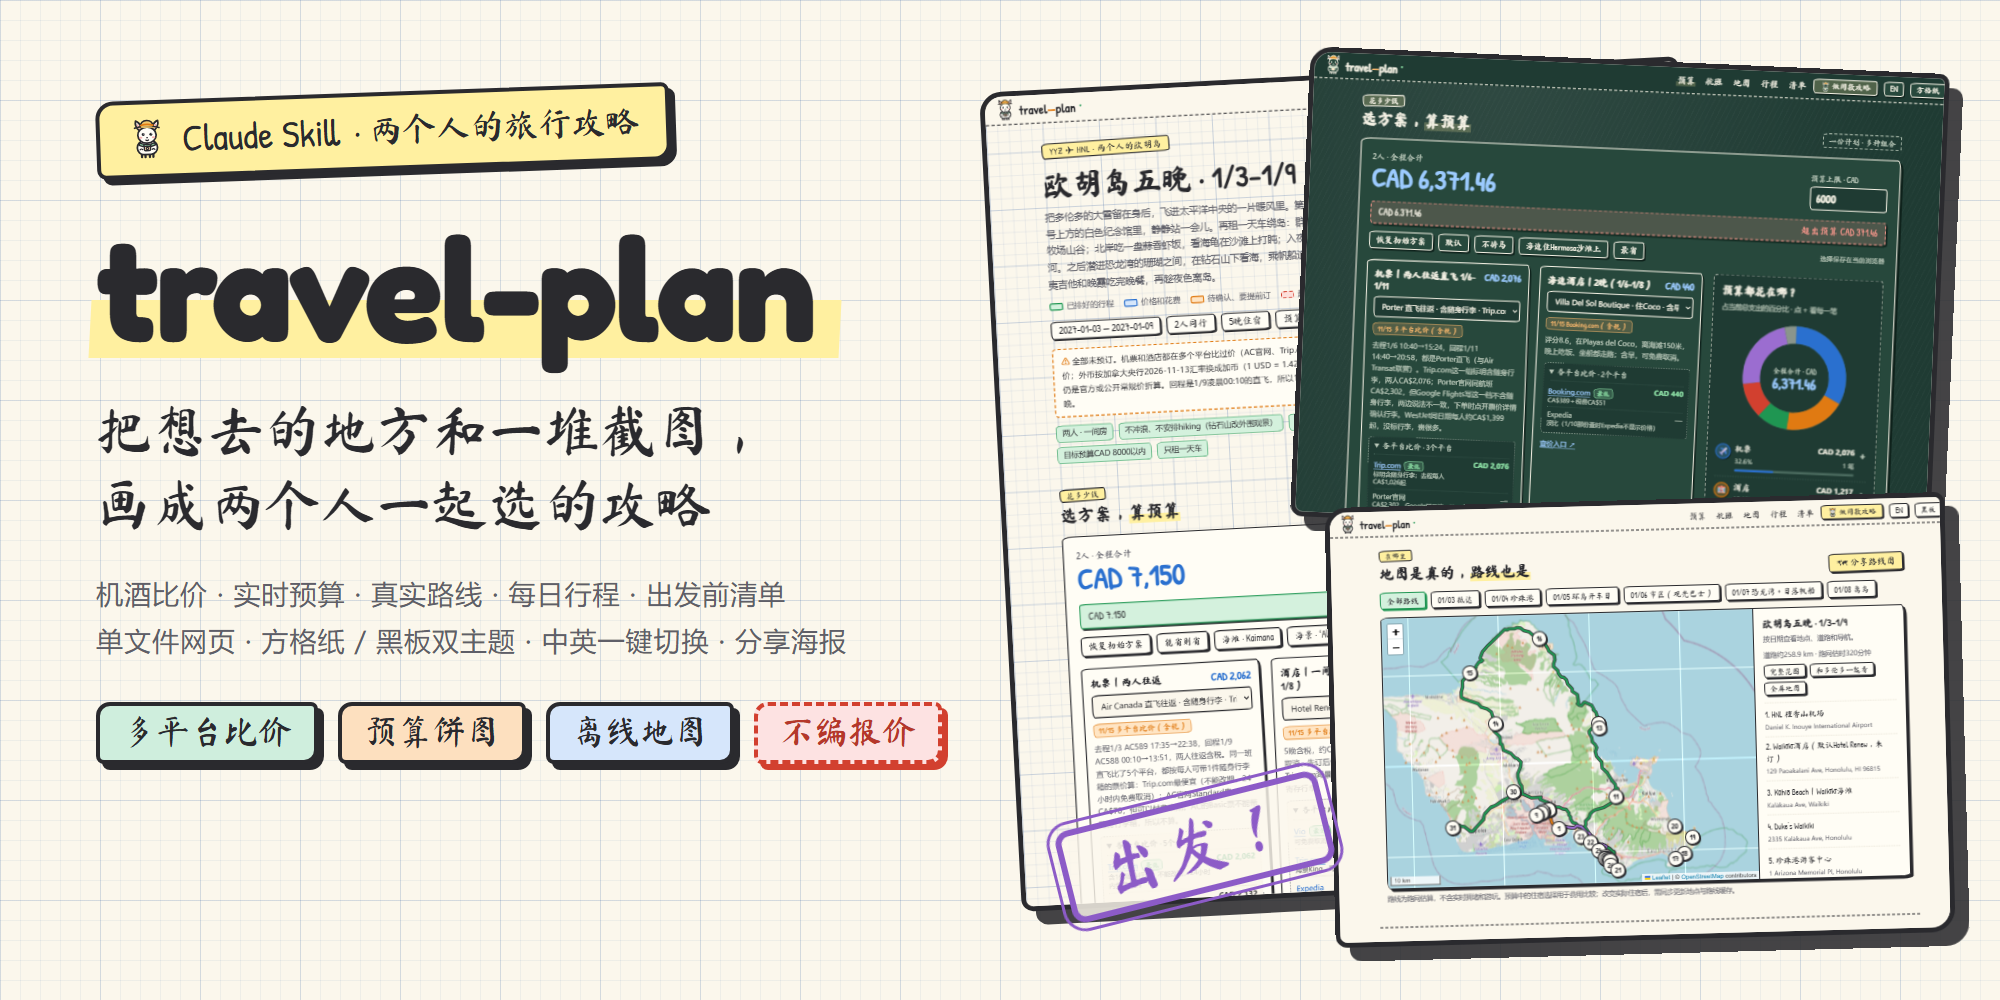
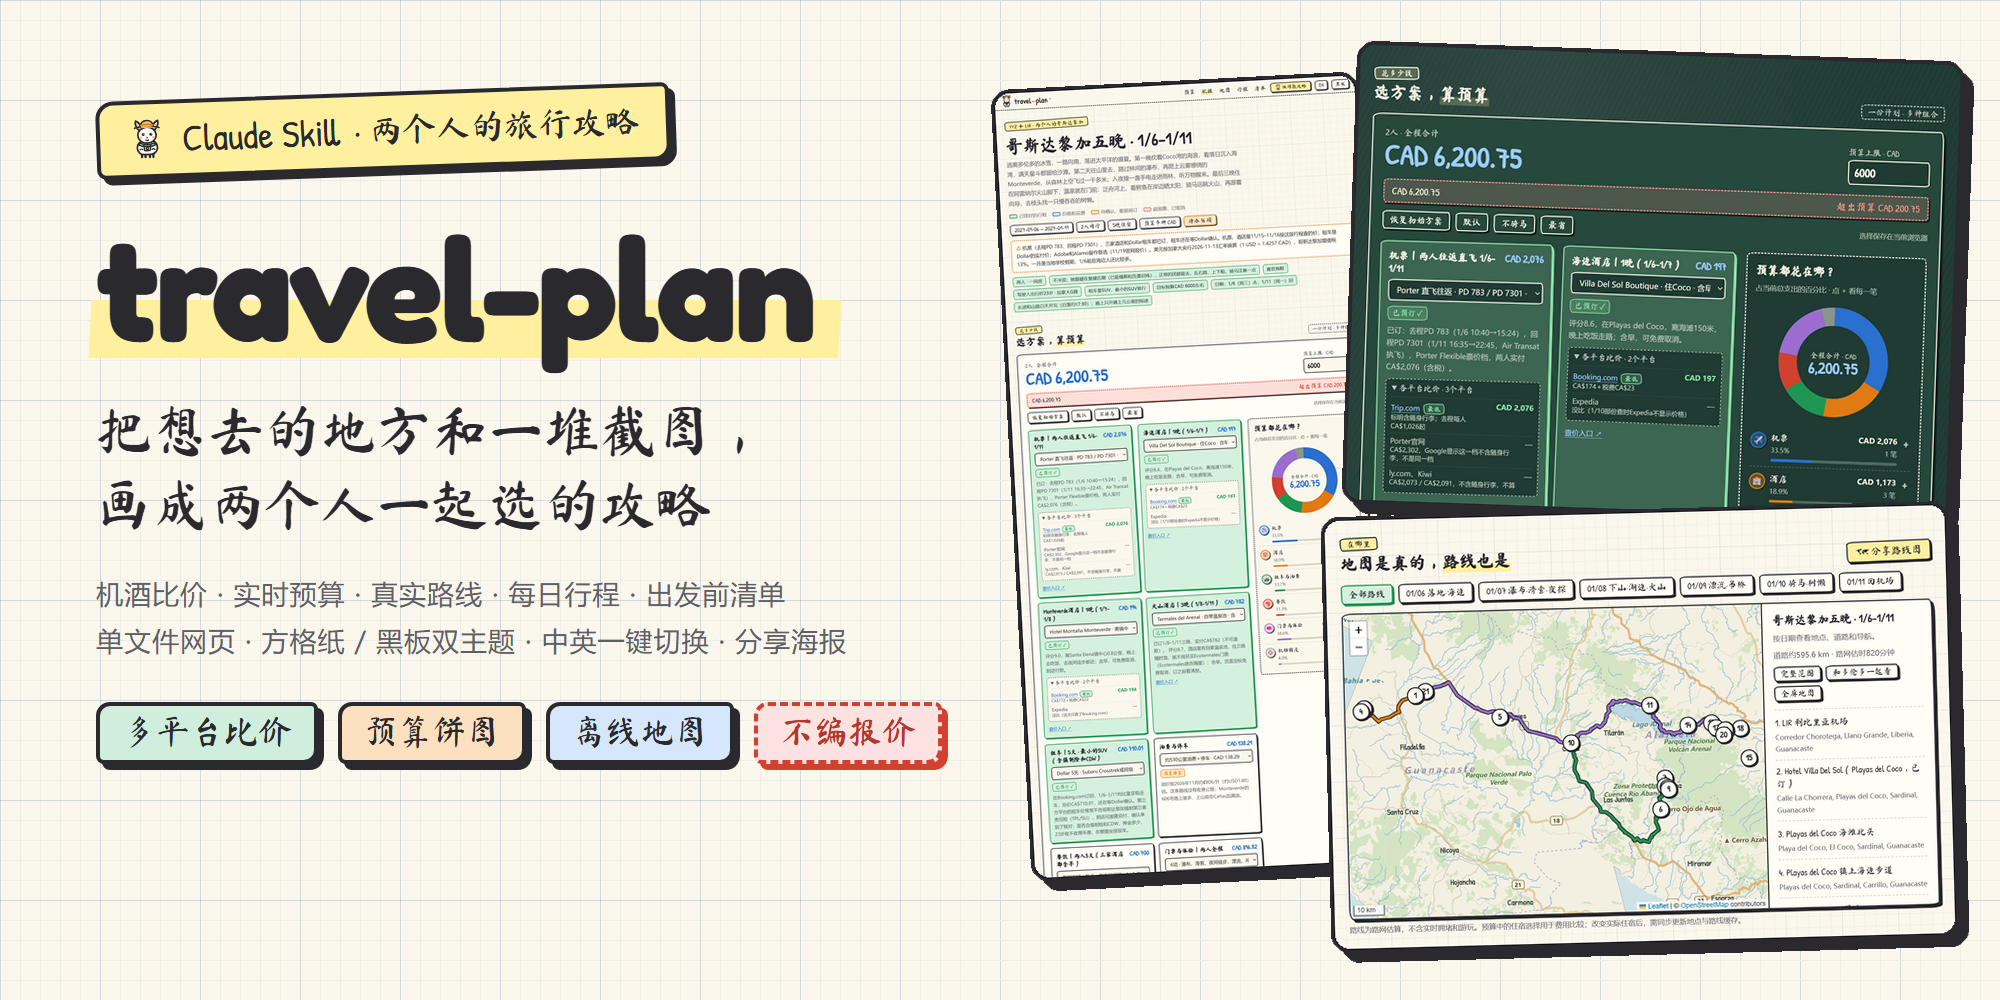
README：截图换成最新的哥斯达黎加页面（横幅、预算、离线底图、分享海报），新增日历订阅一节和示意图

Changed region(s): [[0.465, 0.031, 0.992, 0.961]]

diff --git a/README.en.md b/README.en.md
@@ -69,8 +69,20 @@ For claude.ai or the Claude desktop app, see [Install](#install) below.
 - The pre-departure checklist looks up visas and entry rules for each traveler's passport and residency, adds the bookings that sell out, and sorts everything by deadline with a countdown.
 - The checklist and the budget are linked: switch the hotel, flight or activities in the budget and the bookings on the checklist follow; tick one off as booked and its budget card turns green.
 - Every activity has "Love it / Maybe / Meh" buttons; anything you're unsure about (say, a hot spring she may skip) starts as Maybe, with priced alternatives listed underneath.
-- "Subscribe in Calendar" adds the whole itinerary to Apple Calendar as its own calendar you can hide in one tap, and it updates when the plan changes: leave at 9:00 and reach the next stop at 13:00, and the calendar shows one 9:00–13:00 block; flights across time zones use the real local times at both ends, as one event from take-off to landing. Each event's notes carry the address, a directions link, opening hours and how long the drive from the previous stop takes, and titles start with an icon (✈ 🚗 🎟 🍽 🏨…). Host the calendar file on GitHub Pages or a secret GitHub Gist to subscribe; with nowhere to host it, the button downloads it instead.
 - Your choices are remembered: published as a Claude Artifact they follow your account to your phone and laptop; anywhere else, carry them over with the sync code or link from Sync at the very bottom of the page.
+
+### Calendar: subscribe to the whole trip in one tap
+
+- Tap "Subscribe in Calendar" at the top right of the daily itinerary and the whole trip goes into Apple Calendar (Google Calendar and Outlook can add it "from URL" too). It is its own calendar, rose pink by default, and one tap hides or shows all of it.
+- Every timed item becomes an event that runs until the next one starts: leave at 9 a.m. and reach the next stop at 1 p.m., and the calendar shows 9:00–13:00. Flights across time zones use the real local times at both ends, as one event from take-off to landing.
+- Titles start with an icon for the kind of plan: ✈ flight, 🚗 drive, 🎟 tour or ticket, 📸 sight, 🍽 meal, 🏨 stay, ♨ hot spring, 🛍 shopping.
+- Notes carry the address, a Google Maps directions link, opening hours, how long and how far the drive from the previous stop is, and the backup options, ready to tap on the road.
+- When the plan changes the calendar updates itself: calendar apps fetch it again on their own schedule, and the file suggests every 12 hours.
+- Subscribing needs the calendar file online: publishing to GitHub Pages includes it; with no site, `node scripts/export_calendar.mjs ./my-trip --gist` saves it as a secret GitHub Gist; inside a Claude Artifact the button opens a small hand-off page that passes it to your calendar. With nothing hosted the button downloads an `.ics` file instead, a one-time import that will not update; a "download the calendar file" link also stays at the very bottom of the page.
+
+![Illustration of the subscribed calendar: a week of trip events, with the waterfall event showing its address, hours and drive time](docs/assets/calendar.en.png)
+
+<sub>Drawn from the real calendar.ics exported from the Costa Rica plan, shown in Costa Rica time.</sub>
 
 ### Sharing: looks good when sent, and friends can make their own
 
@@ -84,7 +96,7 @@ For claude.ai or the Claude desktop app, see [Install](#install) below.
 | Offline base map | Share route poster |
 | :---: | :---: |
 | [![Land, forests, rivers, borders, road classes, route shields and place names](docs/assets/map.png)](docs/assets/map.png) | [![Hand-drawn poster with each day's route, place stickers, highlights and the alpaca](docs/assets/share-poster.png)](docs/assets/share-poster.png) |
-| Road classes · route shields · rivers and borders · towns, national parks and bays | A colour per day · place stickers · day cards · one-tap save |
+| Road classes · route shields · rivers and borders · towns, national parks and bays | A colour per day · place stickers · zoomed inset · flight locator map · one-tap save |
 
 **Multi-city trips can become a picker**: choose cities, reorder them and set nights per city, pick train or plane, and dates, lodging, routes and budget all follow; a match or show you must attend becomes the anchor. See the [multi-city workflow](references/multi-city.md).
 

diff --git a/README.md b/README.md
@@ -69,8 +69,20 @@
 - 出发前清单按每个人的护照和居留身份查签证和入境要求，再加上要提前抢的预订，按截止日排好，带倒计时。
 - 清单和预算是连着的：在预算里换了酒店、航班或活动，清单里要订的东西跟着换；在清单里勾上「已订」，预算里对应的卡片变成绿色。
 - 每个游玩项目右边可以点「夯 / 待定 / 额」，拿不准的（比如不一定想泡的温泉）先标待定，下面列好可以换的项目和价格。
-- 「订阅到日历」一键把整个行程订阅进苹果日历，单独成一个日历、可以一键隐藏，行程改了会自动更新：早上 9 点出发、下午 1 点到下一站，日历上就是 9:00–13:00 一段；跨时区的航班按两地真实时间算，起飞和落地是一个日程。每个日程的备注里有地址、导航链接、营业时间和「从上一站开车多久」；日程标题前有图标（✈ 🚗 🎟 🍽 🏨…）。日历文件放在 GitHub Pages 或不公开的 GitHub Gist 上就能订阅，什么都没有时改成下载。
 - 点过的选择会记下来：发成 Claude Artifact 时，同一账号换手机、电脑打开都能看到；在别处用页面最底下「同步」里的同步码或链接带过去。
+
+### 日历：整趟行程一键订阅
+
+- 「每天做什么」右上角点「订阅到日历」，整趟行程进到苹果日历（Google 日历、Outlook 用「通过网址添加」也能订）。它单独成一个日历，默认玫瑰粉色，一点就能整个隐藏或显示。
+- 每个按时间排好的项目都是一段日程，一直排到下一项开始：早上 9 点出发、下午 1 点到下一站，日历上就是 9:00–13:00。跨时区的航班按两地真实时间算，从起飞到落地是一个日程。
+- 标题前有图标分类型：✈ 航班、🚗 开车、🎟 跟团和门票、📸 景点、🍽 吃饭、🏨 住宿、♨ 温泉、🛍 逛店。
+- 备注里写好地址、Google Maps 导航链接、营业时间、从上一站开车多久多少公里，还有备选项目，在路上点开就能用。
+- 行程改了日历会自动更新：日历 app 会定期重新拉取，文件里建议每 12 小时一次。
+- 订阅要把日历文件放在网上：发布到 GitHub Pages 时自动带上；没有网站可以用 `node scripts/export_calendar.mjs ./my-trip --gist` 存成不公开的 GitHub Gist；在 Claude Artifact 里点订阅会先打开一个中转页，再交给日历。什么都没有时按钮改成下载 `.ics` 文件，导入一次，不会自动更新；页面最底下也一直留着「下载日历文件」。
+
+![订阅后的日历示意图：一周的行程块，选中的瀑布日程显示地址、营业时间和路程](docs/assets/calendar.png)
+
+<sub>用这份哥斯达黎加攻略真实导出的 calendar.ics 画的示意图，按哥斯达黎加时间显示。</sub>
 
 ### 分享：发出去好看，朋友也能做同款
 
@@ -84,7 +96,7 @@
 | 地图自带离线底图 | 一键生成分享路线图 |
 | :---: | :---: |
 | [![陆地、山区、河流、国界、公路分级、编号牌和地名，在线图块被拦截时也能看](docs/assets/map.png)](docs/assets/map.png) | [![手绘海报：每天路线、景点贴纸、每日亮点和小羊驼](docs/assets/share-poster.png)](docs/assets/share-poster.png) |
-| 公路分级 · 编号牌 · 河流和国界 · 城镇、国家公园和海湾名 | 每天一种颜色 · 景点贴纸 · 每日卡片 · 一键保存 |
+| 公路分级 · 编号牌 · 河流和国界 · 城镇、国家公园和海湾名 | 每天一种颜色 · 景点贴纸 · 放大小图 · 飞行小地图 · 一键保存 |
 
 **多城市旅行也能做成选择器**：自由勾选城市、调整顺序和每城晚数、火车飞机二选一，日期、住宿、路线和预算一起联动；有必须参加的球赛或演出，就围绕它来排。详见[多城市工作流](references/multi-city.md)。
 
